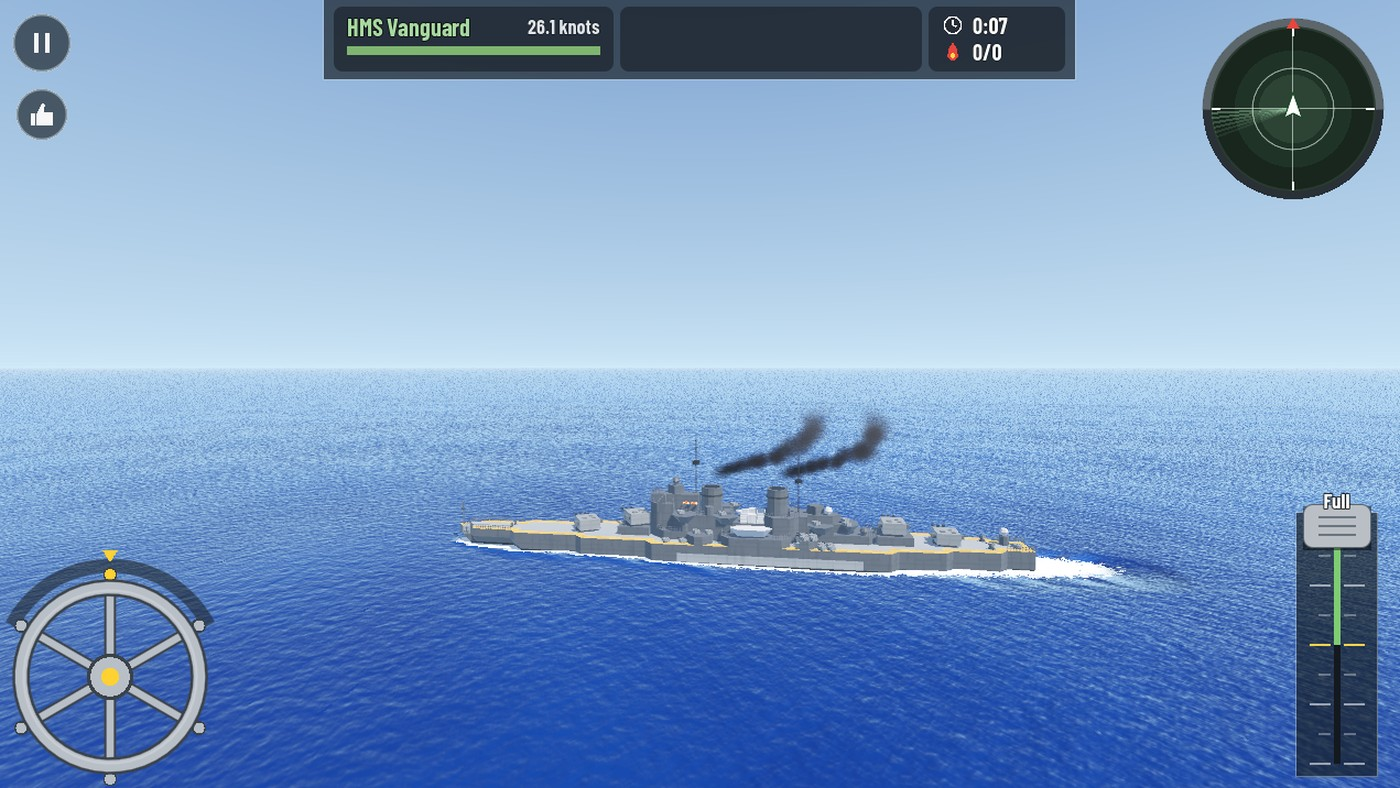
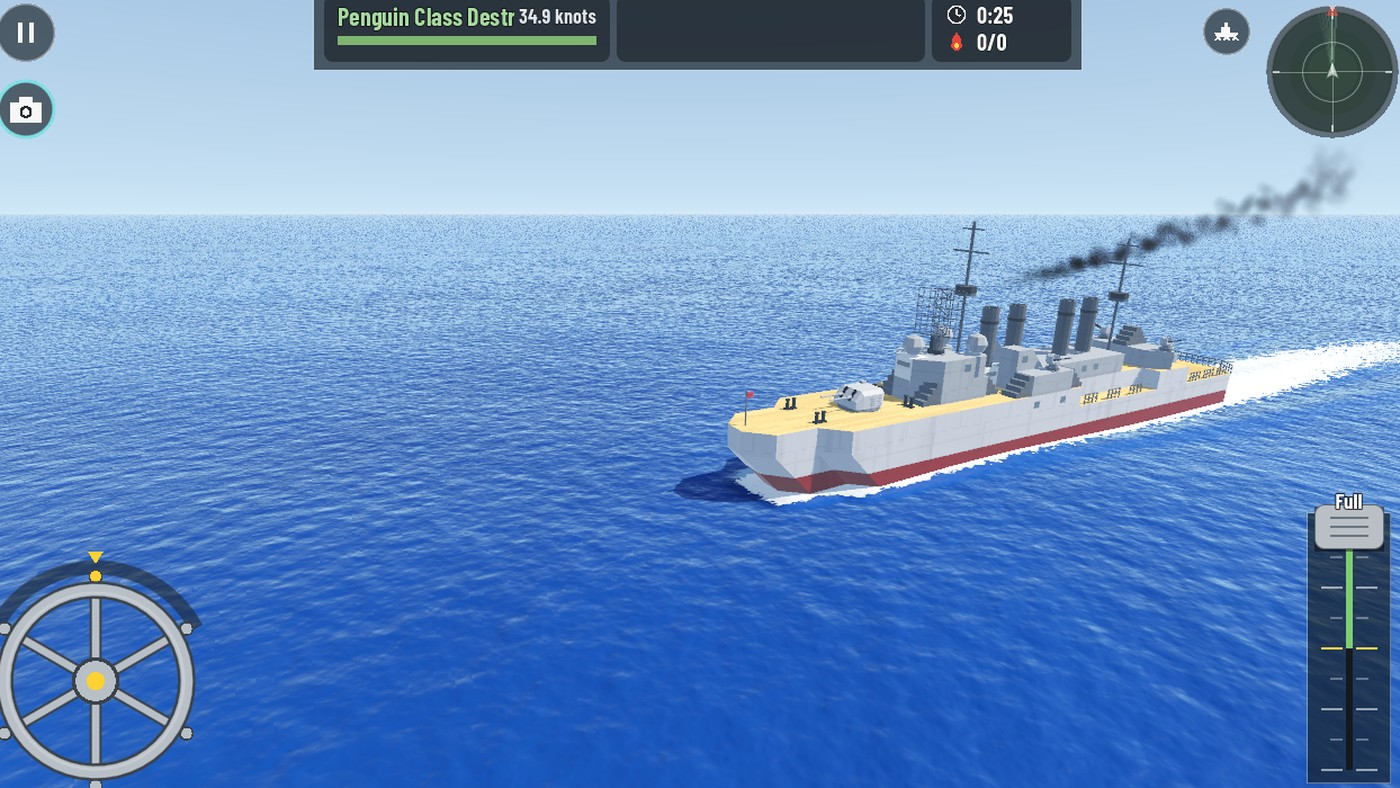
Redesign the home page around real-time battles
Add a real-time PvP section with an in-battle screenshot, a new hero
image and five weapon cards whose stats match the game's block data.
Remove the Diamonds section. Keep the closed-beta sign-up steps,
Discord and legal links, and drop images the page no longer uses.

diff --git a/index.html b/index.html
@@ -4,13 +4,13 @@
 <meta charset="utf-8">
 <meta name="viewport" content="width=device-width,initial-scale=1,viewport-fit=cover">
 <title>Infinite Navy</title>
-<meta name="description" content="Infinite Navy: build warships block by block, sail them into battle in four kinds of weather, and trade your best designs with other captains. Now in closed beta on Android.">
+<meta name="description" content="Infinite Navy: build warships block by block and fight ships built by other players in real-time naval battles. Now in closed beta on Android.">
 <link rel="canonical" href="https://infinitenavy.com/">
 <meta property="og:type" content="website">
 <meta property="og:url" content="https://infinitenavy.com/">
 <meta property="og:title" content="Infinite Navy">
-<meta property="og:description" content="Build warships block by block, sail them into battle, and trade your best designs with other captains.">
-<meta property="og:image" content="https://infinitenavy.com/img/hero-sunset.jpg">
+<meta property="og:description" content="Build warships block by block, fight other players in real-time naval battles, and trade your best designs with other captains.">
+<meta property="og:image" content="https://infinitenavy.com/img/hero.jpg">
 <meta name="twitter:card" content="summary_large_image">
 <meta name="theme-color" content="#05090f">
 <style>body{margin:0;padding:0}[hidden]{display:none!important}</style>
@@ -30,7 +30,6 @@
   --ink-3: #8fa3b5;
   --cyan: #73b8f5;
   --gold: #f2c93b;
-  --diamond: #8fd0ff;
   --navy: #1f4f86;
   --navy-edge: #5f93c9;
   --green: #2f8f3e;
@@ -177,13 +176,6 @@ ol.steps span { color: var(--ink-2); }
 .fact .num { font-family: var(--f-head); font-weight: 700; font-size: 46px; line-height: 1; color: var(--gold); font-variant-numeric: tabular-nums; }
 .fact p { margin: 0; color: var(--ink-2); }
 
-/* Diamonds */
-.gem { width: 32px; height: 28px; flex-shrink: 0; }
-.pack .num { display: flex; align-items: center; gap: 10px; color: var(--diamond); }
-.pack .cost { font-family: var(--f-head); font-weight: 700; font-size: 26px; }
-.pack .save { font-family: var(--f-head); font-weight: 600; font-size: 17px; color: var(--diamond); }
-.fine { margin: 18px 0 0; max-width: 70ch; font-size: 15px; color: var(--ink-3); }
-
 /* Closing */
 .closing { border-top: 2px solid #2b3a4a; background: linear-gradient(180deg, rgba(5, 9, 15, 0.6), rgba(5, 9, 15, 0.95)); text-align: left; }
 .closing .wrap { display: flex; flex-wrap: wrap; align-items: center; justify-content: space-between; gap: 24px; }
@@ -203,10 +195,9 @@ footer .logo { font-size: 18px; }
     <nav aria-label="Sections">
       <ul>
         <li><a href="#build">Shipyard</a></li>
-        <li><a href="#fight">Battle</a></li>
+        <li><a href="#pvp">Battle</a></li>
         <li><a href="#fleet">Fleet</a></li>
         <li><a href="#market">Marketplace</a></li>
-        <li><a href="#diamonds">Diamonds</a></li>
       </ul>
     </nav>
     <a class="btn small" href="#play">Join the beta</a>
@@ -215,16 +206,16 @@ footer .logo { font-size: 18px; }
 
 <main id="top">
   <section class="hero" aria-labelledby="hero-title">
-    <img class="bg" src="img/hero-sunset.jpg" alt="A block-built battleship under fire on a golden sunset sea, shell splashes rising around it as it closes on an enemy heavy cruiser on the horizon" fetchpriority="high">
+    <img class="bg" src="img/hero.jpg" alt="A block-built battleship in grey dazzle stripes on a blue sea, a seaplane flying past" fetchpriority="high">
     <div class="wrap">
       <h1 id="hero-title">INFINITE<br>NAVY<sup>™</sup></h1>
       <p class="motto">BUILD · SAIL · FIGHT</p>
-      <p class="pitch">Design a warship block by block, fit it with real-world guns, and take it to sea against enemy fleets.</p>
+      <p class="pitch">Design a warship block by block, fit it with real-world guns, and battle ships built by other players in real time.</p>
       <div class="ctas">
         <a class="btn" href="#play">Join the beta</a>
         <a class="btn ghost" href="#build">See the shipyard</a>
       </div>
-      <p class="note">Closed beta now open · Android phones and tablets · plays fully offline</p>
+      <p class="note">Closed beta now open · Android phones and tablets</p>
     </div>
   </section>
 
@@ -247,41 +238,41 @@ footer .logo { font-size: 18px; }
         </div>
       </div>
 
-      <div class="armoury" role="list" aria-label="Five guns from the weapon catalog">
+      <div class="armoury" role="list" aria-label="Five weapons from the weapon catalog">
         <article class="gun" role="listitem">
-          <div class="pic"><img src="img/gun-g46.png" alt="46 cm triple turret model" loading="lazy"></div>
+          <div class="pic"><img src="img/w-460.png" alt="460mm Type 94 triple gun turret, 8 by 8 by 3 blocks" loading="lazy"></div>
           <div class="body">
-            <span class="name">46cm Gun</span>
-            <dl><dt>Range</dt><dd>62.1 km</dd><dt>Interval</dt><dd>10.0 s</dd><dt>Energy</dt><dd>2.1 GJ</dd><dt>Weight</dt><dd>2510.1 t</dd></dl>
+            <span class="name">460mm Type 94 Gun</span>
+            <dl><dt>Range</dt><dd>20.0 km</dd><dt>Interval</dt><dd>10.0 s</dd><dt>Energy</dt><dd>2.1 GJ</dd><dt>Weight</dt><dd>2510.1 t</dd></dl>
             <span class="price">90000<svg class="coin" viewBox="0 0 44 30" aria-hidden="true"><ellipse cx="22" cy="21" rx="18" ry="6" fill="#a8790f"/><ellipse cx="22" cy="15" rx="18" ry="6" fill="#e0ad22"/><ellipse cx="22" cy="10" rx="18" ry="6" fill="#f6cd3c" stroke="#b8860b" stroke-width="1.2"/></svg></span>
           </div>
         </article>
         <article class="gun" role="listitem">
-          <div class="pic"><img src="img/gun-g40.png" alt="40 cm triple turret model" loading="lazy"></div>
+          <div class="pic"><img src="img/w-36q.png" alt="36cm quadruple gun turret, 5 by 4 by 2 blocks" loading="lazy"></div>
           <div class="body">
-            <span class="name">40cm Triple Gun</span>
-            <dl><dt>Range</dt><dd>63.5 km</dd><dt>Interval</dt><dd>10.0 s</dd><dt>Energy</dt><dd>1.2 GJ</dd><dt>Weight</dt><dd>1004.1 t</dd></dl>
-            <span class="price">75000<svg class="coin" viewBox="0 0 44 30" aria-hidden="true"><ellipse cx="22" cy="21" rx="18" ry="6" fill="#a8790f"/><ellipse cx="22" cy="15" rx="18" ry="6" fill="#e0ad22"/><ellipse cx="22" cy="10" rx="18" ry="6" fill="#f6cd3c" stroke="#b8860b" stroke-width="1.2"/></svg></span>
+            <span class="name">36cm Quadruple Gun</span>
+            <dl><dt>Range</dt><dd>17.0 km</dd><dt>Interval</dt><dd>10.0 s</dd><dt>Energy</dt><dd>822 MJ</dd><dt>Weight</dt><dd>615.0 t</dd></dl>
+            <span class="price">65000<svg class="coin" viewBox="0 0 44 30" aria-hidden="true"><ellipse cx="22" cy="21" rx="18" ry="6" fill="#a8790f"/><ellipse cx="22" cy="15" rx="18" ry="6" fill="#e0ad22"/><ellipse cx="22" cy="10" rx="18" ry="6" fill="#f6cd3c" stroke="#b8860b" stroke-width="1.2"/></svg></span>
           </div>
         </article>
         <article class="gun" role="listitem">
-          <div class="pic"><img src="img/gun-g20.png" alt="20 cm twin turret model" loading="lazy"></div>
-          <div class="body">
-            <span class="name">20cm Twin Gun</span>
-            <dl><dt>Range</dt><dd>77.2 km</dd><dt>Interval</dt><dd>7.0 s</dd><dt>Energy</dt><dd>108 MJ</dd><dt>Weight</dt><dd>155.0 t</dd></dl>
-            <span class="price">15000<svg class="coin" viewBox="0 0 44 30" aria-hidden="true"><ellipse cx="22" cy="21" rx="18" ry="6" fill="#a8790f"/><ellipse cx="22" cy="15" rx="18" ry="6" fill="#e0ad22"/><ellipse cx="22" cy="10" rx="18" ry="6" fill="#f6cd3c" stroke="#b8860b" stroke-width="1.2"/></svg></span>
-          </div>
-        </article>
-        <article class="gun" role="listitem">
-          <div class="pic"><img src="img/gun-mk45.png" alt="Mk 45 5-inch gun mount model" loading="lazy"></div>
+          <div class="pic"><img src="img/w-mk45.png" alt="Mk 45 5 inch gun mount, 1 by 2 by 2 blocks" loading="lazy"></div>
           <div class="body">
             <span class="name">Mk 45 5 inch Gun</span>
-            <dl><dt>Range</dt><dd>19.6 km</dd><dt>Interval</dt><dd>1.0 s</dd><dt>Energy</dt><dd>1.0 GJ</dd><dt>Weight</dt><dd>21.7 t</dd></dl>
+            <dl><dt>Range</dt><dd>19.6 km</dd><dt>Interval</dt><dd>1.0 s</dd><dt>Energy</dt><dd>5.0 GJ</dd><dt>Weight</dt><dd>21.7 t</dd></dl>
             <span class="price">50000<svg class="coin" viewBox="0 0 44 30" aria-hidden="true"><ellipse cx="22" cy="21" rx="18" ry="6" fill="#a8790f"/><ellipse cx="22" cy="15" rx="18" ry="6" fill="#e0ad22"/><ellipse cx="22" cy="10" rx="18" ry="6" fill="#f6cd3c" stroke="#b8860b" stroke-width="1.2"/></svg></span>
           </div>
         </article>
         <article class="gun" role="listitem">
-          <div class="pic"><img src="img/gun-tt92.png" alt="Oxygen torpedo tube launcher model" loading="lazy"></div>
+          <div class="pic"><img src="img/w-rocket.png" alt="Rocket launcher with a grid of tubes, 2 by 2 by 2 blocks" loading="lazy"></div>
+          <div class="body">
+            <span class="name">Rocket Launcher</span>
+            <dl><dt>Range</dt><dd>10.0 km</dd><dt>Interval</dt><dd>15.0 s</dd><dt>Energy</dt><dd>2.4 GJ</dd><dt>Weight</dt><dd>50.0 t</dd></dl>
+            <span class="price">30000<svg class="coin" viewBox="0 0 44 30" aria-hidden="true"><ellipse cx="22" cy="21" rx="18" ry="6" fill="#a8790f"/><ellipse cx="22" cy="15" rx="18" ry="6" fill="#e0ad22"/><ellipse cx="22" cy="10" rx="18" ry="6" fill="#f6cd3c" stroke="#b8860b" stroke-width="1.2"/></svg></span>
+          </div>
+        </article>
+        <article class="gun" role="listitem">
+          <div class="pic"><img src="img/w-oxy.png" alt="Oxygen torpedo tube, 3 by 3 by 1 blocks" loading="lazy"></div>
           <div class="body">
             <span class="name">Oxygen Torpedo Tube</span>
             <dl><dt>Range</dt><dd>10.0 km</dd><dt>Interval</dt><dd>15.0 s</dd><dt>Energy</dt><dd>5.3 GJ</dd><dt>Weight</dt><dd>500.0 t</dd></dl>
@@ -292,11 +283,32 @@ footer .logo { font-size: 18px; }
     </div>
   </section>
 
+  <section class="band" id="pvp" aria-labelledby="pvp-title">
+    <div class="wrap">
+      <div class="split flip">
+        <div class="media plate">
+          <span class="tag">REAL-TIME BATTLE</span>
+          <img src="img/pvp.jpg" width="1400" height="779" alt="In-game battle: a ship takes a hit, with the wheel, throttle and radar on screen" loading="lazy">
+        </div>
+        <div>
+          <span class="eyebrow">Fight real players</span>
+          <h2 id="pvp-title">Real-time naval battles</h2>
+          <p class="lede">Battle ships built by other players, in real time. Every opponent is a real captain with a ship of their own design.</p>
+          <ul class="ticks">
+            <li><span><b>Their hull, their guns.</b> Every ship you face was built block by block by another player.</span></li>
+            <li><span><b>Build something better.</b> Beat a design, learn from it, then take your own to sea.</span></li>
+            <li><span><b>Steer and fire live.</b> Wheel, throttle and radar, with shells in the air at up to 20 km.</span></li>
+          </ul>
+        </div>
+      </div>
+    </div>
+  </section>
+
   <section class="band" id="fight" aria-labelledby="fight-title" style="background: rgba(5, 9, 15, 0.5); border-block: 1px solid #1d2733;">
     <div class="wrap">
-      <span class="eyebrow">Battle</span>
-      <h2 id="fight-title">Same sea, four different fights</h2>
-      <p class="lede">Weather changes what you can see and what you can hit. A clear noon duel at 60 km plays nothing like a night action lit only by the moon.</p>
+      <span class="eyebrow">Weather</span>
+      <h2 id="fight-title">Every battle plays differently</h2>
+      <p class="lede">Weather changes what you can see and what you can hit. A clear noon duel at 20 km plays nothing like a night action lit only by the moon.</p>
       <div class="wx-tabs" role="tablist" aria-label="Weather">
         <button role="tab" id="tab-sunny" aria-selected="true" aria-controls="wx-panel" data-wx="sunny">Sunny</button>
         <button role="tab" id="tab-dawn" aria-selected="false" aria-controls="wx-panel" data-wx="dawn" tabindex="-1">Dawn</button>
@@ -304,7 +316,7 @@ footer .logo { font-size: 18px; }
         <button role="tab" id="tab-night" aria-selected="false" aria-controls="wx-panel" data-wx="night" tabindex="-1">Night</button>
       </div>
       <div class="wx-stage" id="wx-panel" role="tabpanel" aria-labelledby="tab-sunny">
-        <img id="wx-img" src="img/sunny.jpg" width="1400" height="788" alt="In-game view of a battleship at sea under a clear blue sky, with the wheel, throttle and radar on screen" loading="lazy">
+        <img id="wx-img" src="img/sunny.jpg" width="1400" height="788" alt="In-game view of a destroyer at full speed under a clear blue sky, smoke trailing from its funnels, with the wheel, throttle and radar on screen" loading="lazy">
         <div class="wx-cap"><strong id="wx-name">Sunny</strong><span id="wx-desc">Long sightlines and calm water. Range is everything.</span></div>
       </div>
     </div>
@@ -362,32 +374,6 @@ footer .logo { font-size: 18px; }
     </div>
   </section>
 
-  <section class="band" id="diamonds" aria-labelledby="diamonds-title">
-    <div class="wrap">
-      <span class="eyebrow">Diamonds</span>
-      <h2 id="diamonds-title">Premium parts for Diamonds</h2>
-      <p class="lede">Diamonds are Infinite Navy's premium currency. Spend them on premium parts in the shipyard that gold can't buy. Every other part and hull is still bought with gold from missions and Marketplace sales.</p>
-      <div class="facts" role="list" aria-label="Diamond packs">
-        <div class="fact pack" role="listitem">
-          <span class="num">30<svg class="gem" viewBox="0 0 32 28" aria-hidden="true"><path d="M8 2h16l6 8-14 16L2 10z" fill="#4aa8e8"/><path d="M2 10h28L24 2H8z" fill="#bfe6ff"/><path d="M10 10l6 16 6-16z" fill="#8fd0ff"/><path d="M8 2h16l6 8-14 16L2 10zM2 10h28M8 2l2 8 6-8 6 8 2-8M10 10l6 16 6-16" fill="none" stroke="#1d5a8f" stroke-width="1.2" stroke-linejoin="round"/></svg></span>
-          <span class="cost">US$1.99</span>
-          <p>The starter pack.</p>
-        </div>
-        <div class="fact pack" role="listitem">
-          <span class="num">90<svg class="gem" viewBox="0 0 32 28" aria-hidden="true"><path d="M8 2h16l6 8-14 16L2 10z" fill="#4aa8e8"/><path d="M2 10h28L24 2H8z" fill="#bfe6ff"/><path d="M10 10l6 16 6-16z" fill="#8fd0ff"/><path d="M8 2h16l6 8-14 16L2 10zM2 10h28M8 2l2 8 6-8 6 8 2-8M10 10l6 16 6-16" fill="none" stroke="#1d5a8f" stroke-width="1.2" stroke-linejoin="round"/></svg></span>
-          <span class="cost">US$4.99</span>
-          <span class="save">16% less per Diamond</span>
-        </div>
-        <div class="fact pack" role="listitem">
-          <span class="num">200<svg class="gem" viewBox="0 0 32 28" aria-hidden="true"><path d="M8 2h16l6 8-14 16L2 10z" fill="#4aa8e8"/><path d="M2 10h28L24 2H8z" fill="#bfe6ff"/><path d="M10 10l6 16 6-16z" fill="#8fd0ff"/><path d="M8 2h16l6 8-14 16L2 10zM2 10h28M8 2l2 8 6-8 6 8 2-8M10 10l6 16 6-16" fill="none" stroke="#1d5a8f" stroke-width="1.2" stroke-linejoin="round"/></svg></span>
-          <span class="cost">US$8.99</span>
-          <span class="save">32% less per Diamond</span>
-        </div>
-      </div>
-      <p class="fine">Prices are in US dollars. Google Play shows the price in your local currency before you buy. Diamonds can only be bought, not earned, and can't be used on the Marketplace, turned into gold or given to other players. See the <a href="terms.html">Terms</a>.</p>
-    </div>
-  </section>
-
   <section class="band closing" id="play" aria-labelledby="play-title">
     <div class="wrap">
       <div>
@@ -420,7 +406,7 @@ footer .logo { font-size: 18px; }
 <script>
 (function () {
   var data = {
-    sunny: { src: 'img/sunny.jpg', name: 'Sunny', desc: 'Long sightlines and calm water. Range is everything.', alt: 'In-game view of a battleship at sea under a clear blue sky, with the wheel, throttle and radar on screen' },
+    sunny: { src: 'img/sunny.jpg', name: 'Sunny', desc: 'Long sightlines and calm water. Range is everything.', alt: 'In-game view of a destroyer at full speed under a clear blue sky, smoke trailing from its funnels, with the wheel, throttle and radar on screen' },
     dawn:  { src: 'img/dawn.jpg',  name: 'Dawn',  desc: 'Low sun in your eyes. Fight with it behind you.', alt: 'In-game view of a battleship in low orange sunlight with an enemy cruiser targeted ahead' },
     storm: { src: 'img/storm.jpg', name: 'Stormy', desc: 'Rain and heavy seas cut visibility and throw off your aim.', alt: 'Battleship in driving rain on a dark grey sea' },
     night: { src: 'img/night.jpg', name: 'Night', desc: 'Moonlight and muzzle flashes. Close in before they see you.', alt: 'Battleship at night with lit bridge windows, a full moon reflecting on the water' }
